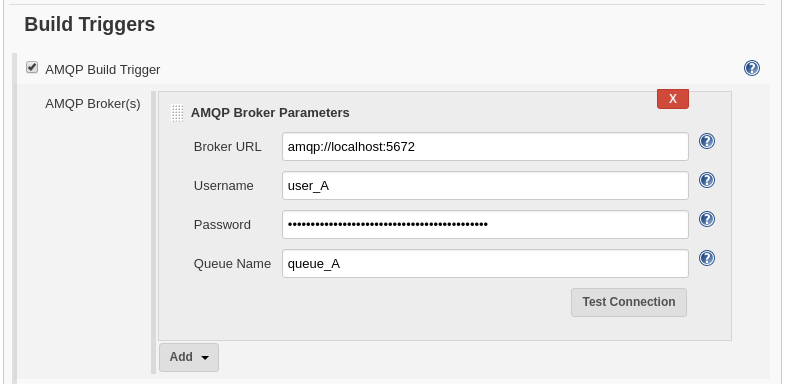
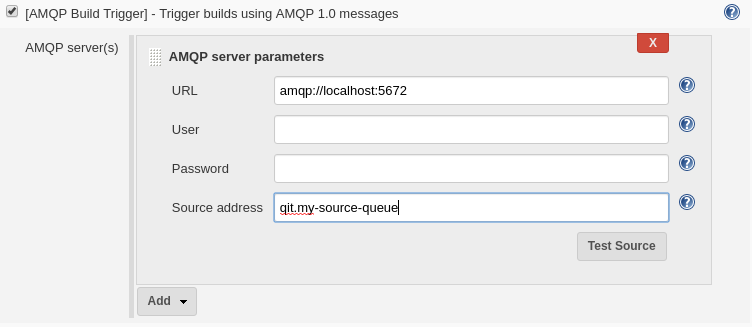
Issue #7, Issue #8: Update to text of trigger dialog, help and README. Also added test of connection credentials and message source (queue name) when clicking the "Test source" button.

diff --git a/src/main/resources/com/redhat/jenkins/plugins/amqpbuildtrigger/AmqpBrokerParams/help-sourceAddr.html b/src/main/resources/com/redhat/jenkins/plugins/amqpbuildtrigger/AmqpBrokerParams/help-sourceAddr.html
@@ -1,0 +1,6 @@
+<div>
+  <p>The address of an AMQP message source from which trigger messages will be received. This is frequently a
+  queue or topic on an AMQP broker. The source address must exist, or the server must be capable of creating it
+  on-demand if it does not exist (which may require some server configuration).</p>
+  <p><b>Required</b></p>
+</div>

diff --git a/src/main/resources/com/redhat/jenkins/plugins/amqpbuildtrigger/AmqpBrokerParams/help-password.html b/src/main/resources/com/redhat/jenkins/plugins/amqpbuildtrigger/AmqpBrokerParams/help-password.html
@@ -1,3 +1,4 @@
 <div>
-  <p>If the broker requires authentication, then this field must contain the password. If no authentication is required, then leave blank.</p>
+  <p>If the server requires authentication, then this field must contain the user's password.</p>
+  <p>If no authentication is required, then leave blank.</p>
 </div>

diff --git a/src/main/resources/com/redhat/jenkins/plugins/amqpbuildtrigger/AmqpBrokerParams/help-url.html b/src/main/resources/com/redhat/jenkins/plugins/amqpbuildtrigger/AmqpBrokerParams/help-url.html
@@ -1,0 +1,5 @@
+<div>
+  <p>URL for the AMQP server which will host the queue or topic from which trigger messages will be received.</p>
+  <p>Format: amqp[s]://&lt;broker-ip-address&gt;[:&lt;port&gt;]</p>
+  <p><b>Required</b></p>
+</div>

diff --git a/src/main/resources/com/redhat/jenkins/plugins/amqpbuildtrigger/AmqpBuildTrigger/help.html b/src/main/resources/com/redhat/jenkins/plugins/amqpbuildtrigger/AmqpBuildTrigger/help.html
@@ -1,3 +1,3 @@
 <div>
-  <p>Add an AMQP Broker and queue (message source) that will be available to trigger a build.</p>
+  <p>Add one or more AMQP message source(s) that will provide messages used to trigger a build.</p>
 </div>

diff --git a/src/main/resources/com/redhat/jenkins/plugins/amqpbuildtrigger/AmqpBrokerParams/help-user.html b/src/main/resources/com/redhat/jenkins/plugins/amqpbuildtrigger/AmqpBrokerParams/help-user.html
@@ -1,0 +1,4 @@
+<div>
+  <p>If the broker requires authentication, then this field must contain the user's ID.</p>
+  <p>If no authentication is required, then leave blank.</p>
+</div>

diff --git a/src/main/java/com/redhat/jenkins/plugins/amqpbuildtrigger/AmqpBrokerParams.java b/src/main/java/com/redhat/jenkins/plugins/amqpbuildtrigger/AmqpBrokerParams.java
@@ -7,62 +7,67 @@ import hudson.model.Descriptor;
 import hudson.util.FormValidation;
 import hudson.util.Secret;
 
-import javax.jms.Connection;
-import javax.jms.ConnectionFactory;
+//import javax.jms.Connection;
+import javax.jms.ConnectionMetaData;
+//import javax.jms.ConnectionFactory;
 import javax.jms.ExceptionListener;
 import javax.jms.JMSException;
+import javax.jms.MessageConsumer;
+import javax.jms.Queue;
+import javax.jms.Session;
 import javax.servlet.ServletException;
 
 import jenkins.model.Jenkins;
 
 import org.apache.commons.lang3.StringUtils;
+import org.apache.qpid.jms.JmsConnection;
 import org.apache.qpid.jms.JmsConnectionFactory;
+//import org.apache.qpid.jms.JmsConnectionMetaData;
 
 import org.kohsuke.stapler.DataBoundConstructor;
 import org.kohsuke.stapler.DataBoundSetter;
 import org.kohsuke.stapler.QueryParameter;
 
 public class AmqpBrokerParams implements Describable<AmqpBrokerParams> {
-    private static final String DISPLAY_NAME = "AMQP Broker Parameters";
+    private static final String DISPLAY_NAME = "AMQP server parameters";
 
-    private String brokerUrl;
-    private String username;
+    private String url;
+    private String user;
     private Secret password;
-    private String queueName;
+    private String sourceAddr;
 
     @DataBoundConstructor
-    public AmqpBrokerParams(String brokerUrl, String username, Secret password, String queueName) {
-        this.brokerUrl = brokerUrl;
-        this.username = username;
+    public AmqpBrokerParams(String url, String username, Secret password, String sourceAddr) {
+        this.url = url;
+        this.user = username;
         this.password = password;
-        this.queueName = queueName;
-        System.out.println("***** AmqpBroker created: " + toString());
+        this.sourceAddr = sourceAddr;
     }
 
-    public String getBrokerUrl() {
-        return brokerUrl;
+    public String getUrl() {
+        return url;
     }
 
-    public String getUsername() {
-        return username;
+    public String getUser() {
+        return user;
     }
 
     public Secret getPassword() {
         return password;
     }
 
-    public String getQueueName() {
-        return queueName;
+    public String getSourceAddr() {
+        return sourceAddr;
     }
 
     @DataBoundSetter
-    public void setBrokerUrl(String brokerUrl) {
-        this.brokerUrl = brokerUrl;
+    public void setUrl(String url) {
+        this.url = url;
     }
 
     @DataBoundSetter
-    public void setUsername(String username) {
-        this.username = username;
+    public void setUser(String user) {
+        this.user = user;
     }
 
     @DataBoundSetter
@@ -75,16 +80,16 @@ public class AmqpBrokerParams implements Describable<AmqpBrokerParams> {
     }
 
     @DataBoundSetter
-    public void setQueueName(String queueName) {
-        this.queueName = queueName;
+    public void setSourceAddr(String sourceAddr) {
+        this.sourceAddr = sourceAddr;
     }
 
     public String toString() {
-        return brokerUrl + "/" + queueName;
+        return url + "/" + sourceAddr;
     }
 
     public boolean isValid() {
-        return brokerUrl != null && !brokerUrl.isEmpty() && queueName != null && !queueName.isEmpty();
+        return url != null && !url.isEmpty() && sourceAddr != null && !sourceAddr.isEmpty();
     }
 
     @Override
@@ -104,23 +109,42 @@ public class AmqpBrokerParams implements Describable<AmqpBrokerParams> {
             return Jenkins.getInstance().getExtensionList(AmqpBrokerUrlDescriptor.class);
         }
 
-        public FormValidation doTestConnection(@QueryParameter("brokerUrl") String brokerUrl) throws ServletException {
-            String uri = StringUtils.strip(StringUtils.stripToNull(brokerUrl), "/");
+        public FormValidation doTestConnection(@QueryParameter("url") String url,
+        		                               @QueryParameter("user") String user,
+        		                               @QueryParameter("passowrd") String password,
+        		                               @QueryParameter("sourceAddr") String sourceAddr) throws ServletException {
+            String uri = StringUtils.strip(StringUtils.stripToNull(url), "/");
             // TODO: (GitHub Issue #2) Validate URL
             if (uri != null /*&& urlValidator.isValid(uri)*/) {
                 try {
-                    ConnectionFactory factory = (ConnectionFactory)new JmsConnectionFactory(uri);
-                    Connection connection = factory.createConnection();
+                    JmsConnectionFactory factory = new JmsConnectionFactory(uri);
+                    JmsConnection connection;
+                    Secret spw = Secret.fromString(password);
+                    if (user.isEmpty() || spw.getPlainText().isEmpty()) {
+                        connection = (JmsConnection)factory.createConnection();
+                    } else {
+                        connection = (JmsConnection)factory.createConnection(user, spw.getPlainText());
+                    }
                     connection.setExceptionListener(new MyExceptionListener());
                     connection.start();
-                    // TODO: Get connection properties
+
+                    // Get connection properties
+                    ConnectionMetaData connectionProperties = connection.getMetaData();
+
+                    Session session = connection.createSession(false, Session.AUTO_ACKNOWLEDGE);
+                    Queue queue = session.createQueue(sourceAddr);
+                    MessageConsumer messageConsumer = session.createConsumer(queue);
+
+                    messageConsumer.close();
+                    session.close();
                     connection.close();
-                    return FormValidation.ok("ok");
+                    return FormValidation.ok("Connection ok [" + connectionProperties.getJMSProviderName() +
+                    		                 " v" + connectionProperties.getProviderVersion() + "]");
                 } catch (javax.jms.JMSException e) {
                     return FormValidation.error(e.toString());
                 }
             }
-            return FormValidation.error("Invalid Broker URL");
+            return FormValidation.error("Invalid server URL");
         }
     }
 

diff --git a/src/main/java/com/redhat/jenkins/plugins/amqpbuildtrigger/AmqpConnection.java b/src/main/java/com/redhat/jenkins/plugins/amqpbuildtrigger/AmqpConnection.java
@@ -38,8 +38,8 @@ public class AmqpConnection {
             return;
         }
         if (connection != null &&
-                !brokerParams.getBrokerUrl().equals(connection.getConnectedURI().toString().split("\\?")[0]) &&
-                !brokerParams.getUsername().equals(connection.getUsername()) &&
+                !brokerParams.getUrl().equals(connection.getConnectedURI().toString().split("\\?")[0]) &&
+                !brokerParams.getUser().equals(connection.getUsername()) &&
                 !brokerParams.getPassword().getPlainText().equals(connection.getPassword())) {
             if (connection != null) {
                 shutdown();
@@ -55,17 +55,17 @@ public class AmqpConnection {
 
     public boolean open(AmqpMessageListener listener) {
         try {
-            JmsConnectionFactory factory = new JmsConnectionFactory(brokerParams.getBrokerUrl());
-            if (brokerParams.getUsername().isEmpty() || brokerParams.getPassword().getPlainText().isEmpty()) {
+            JmsConnectionFactory factory = new JmsConnectionFactory(brokerParams.getUrl());
+            if (brokerParams.getUser().isEmpty() || brokerParams.getPassword().getPlainText().isEmpty()) {
                 connection = (JmsConnection)factory.createConnection();
             } else {
-                connection = (JmsConnection)factory.createConnection(brokerParams.getUsername(), brokerParams.getPassword().getPlainText());
+                connection = (JmsConnection)factory.createConnection(brokerParams.getUser(), brokerParams.getPassword().getPlainText());
             }
             connection.setExceptionListener(new MyExceptionListener());
             connection.addConnectionListener(ConnectionManager.getInstance());
             session = connection.createSession(false, Session.AUTO_ACKNOWLEDGE);
 
-            Queue queue = session.createQueue(brokerParams.getQueueName());
+            Queue queue = session.createQueue(brokerParams.getSourceAddr());
             messageConsumer = session.createConsumer(queue);
             messageConsumer.setMessageListener(new AmqpMessageListener(brokerParams, triggers));
 

diff --git a/src/main/java/com/redhat/jenkins/plugins/amqpbuildtrigger/AmqpBuildTrigger.java b/src/main/java/com/redhat/jenkins/plugins/amqpbuildtrigger/AmqpBuildTrigger.java
@@ -27,7 +27,7 @@ import org.kohsuke.stapler.DataBoundSetter;
 public class AmqpBuildTrigger<T extends Job<?, ?> & ParameterizedJobMixIn.ParameterizedJob> extends Trigger<T> {
     private static final String KEY_PARAM_NAME = "name";
     private static final String KEY_PARAM_VALUE = "value";
-    private static final String PLUGIN_NAME = "AMQP Build Trigger";
+    private static final String PLUGIN_NAME = "[AMQP Build Trigger] - Trigger builds using AMQP 1.0 messages";
     private List<AmqpBrokerParams> amqpBrokerParamsList = new ArrayList<AmqpBrokerParams>();
 
     @DataBoundConstructor

diff --git a/README.md b/README.md
@@ -1,5 +1,5 @@
 # AMQP Build Trigger for Jenkins
-This Jenkins plugin will trigger builds when AMQP messages are received from brokers. Each job may specify one or more brokers and queues from which to recieve messages. If any AMQP message is received from any of the configured queues, then a build is triggered.
+This Jenkins plugin will trigger builds when AMQP messages are received from AMQP message sources (typically a broker with a queue or topic). Each job may specify one or more AMQP sources from which to recieve messages. If any AMQP message is received from any of the configured sources, then a build is triggered.
 
 ## Building and Installing
 After cloning from Github, use maven to build the package with the command `mvn package`. The compiled package will be located at `target\amqp-build-trigger.hpi`.
@@ -13,33 +13,34 @@ then select the **Advanced** tab. Under the **Upload Plugin** section, select th
 After a restart, the plugin should be active in Jenkins.
 
 ## Basic Configuration
-Within each job, scroll down to the **AMQP Build Trigger** section.
+Within each job, scroll down to the **Build Triggers** section (or click on the **Build Triggers** tab) and then locate the **[AMQP Build Trigger]** checkbox. Select the **[AMQP Build Trigger]** checkbox to enable the trigger.
 
 ![AMQP Build Trigger location](images/image_A.png)
 
-Each job may specify multiple brokers and/or queues on which to listen for trigger messages. Initially, the list will be empty. Select the **AMQP Build Trigger** checkbox to enable the trigger. Click the **Add** button to add a broker/queue, then select **AMQP Broker Parameters** from the drop-down list.
+Each job may specify multiple AMQP sources for trigger messages. Initially, the list will be empty. Click the **Add** button to add an AMQP server, then select **AMQP server parameters** from the drop-down list.
 
-![Adding a new broker](images/image_B.png)
+![Adding a new AMQP server](images/image_B.png)
 
-This will create a new empty broker block.
+This will create a new empty server parameters block. To complete this block:
 
-![Broker properties block](images/image_C.png)
+* Enter the **URL** in the format `amqp://ip-addr[:port]`, eg `amqp://localhost` or `amqp://localhost:5672` or `amqp://10.0.0.5:35672`
+* If necessary, enter a **Usern** and **Password** for logging onto the server. If supplied, the connection will use SASL `PLAIN` authentication, otherwise if left blank, `ANONYMOUS`. Make sure the server is configured for this type of access and that the user is known to it.
+* Enter a **Source address** from which to receive messages. If the server is a broker, then this is usually the name of a queue or topic.
 
-To complete the broker block:
+![Server properties block](images/image_C.png)
 
-* Enter the **Broker URL** in the format `amqp://ip-addr:port`, eg `amqp://localhost:5672` or `amqp://10.0.0.5:5672`
-* If necessary, enter a **Username** and **Password** for logging onto the broker. If supplied, the connection will use SASL `PLAIN` authentication, otherwise if left blank, `ANONYMOUS`. Make sure the broker is configured for this type of access and that the user is known to the broker.
-* Enter a **Queue Name** from which to receive messages
-* A **Test Connection** button if clicked will establish a temporary connection to the broker and report `ok` if it worked, otherwise an error message will be displayed.
+* A **Test Source** button if clicked will establish a temporary connection to the server and report `Connection ok` if it worked, otherwise an error message will be displayed.
 
-To add additional brokers, click the **Add** button. To remove a broker, click the red **X** button at the top of each block.
+![Testing the connection](images/image_D.png)
 
-Finally, click the **Save** button at the bottom of the form to save the settings. Once these settings are saved, a new connection to each broker will be established and a listener will wait for messages.
+To add additional sources, click the **Add** button. To remove a source, click the red **X** button at the top of each block.
+
+Finally, click the **Save** button at the bottom of the form to save the settings. Once these settings are saved, a new connection to each server will be established and a listener will wait for messages.
 
 **NOTE:** It is possible to perform a simple test of the trigger by using the maven command `mvn hpi:run` from the project top level directory. This will start a simplified version of Jenkins on a Jetty server instance, and the trigger plugin will be installed and running. Only Freestyle projects are available, but it makes for a quick and easy way of testing the trigger. The web interface will be available on `localhost:8080/jenkins`, and all jenkins logs, project files, etc. will be located in the project top-level directory under `work`.
 
-**NOTE:** It is possible to quickly send trigger messages using `qpid-send` as follows:
+**NOTE:** It is possible to quickly send trigger messages using `qpid-send` through a broker running on localhost as follows:
 ```
 qpid-send -a <queue-name> -m1
 ```
-where `<queue-name>` is replaced by the queue name configured for your project.
+where `<queue-name>` is replaced by the queue name configured in the **Source Address** field for your project.
